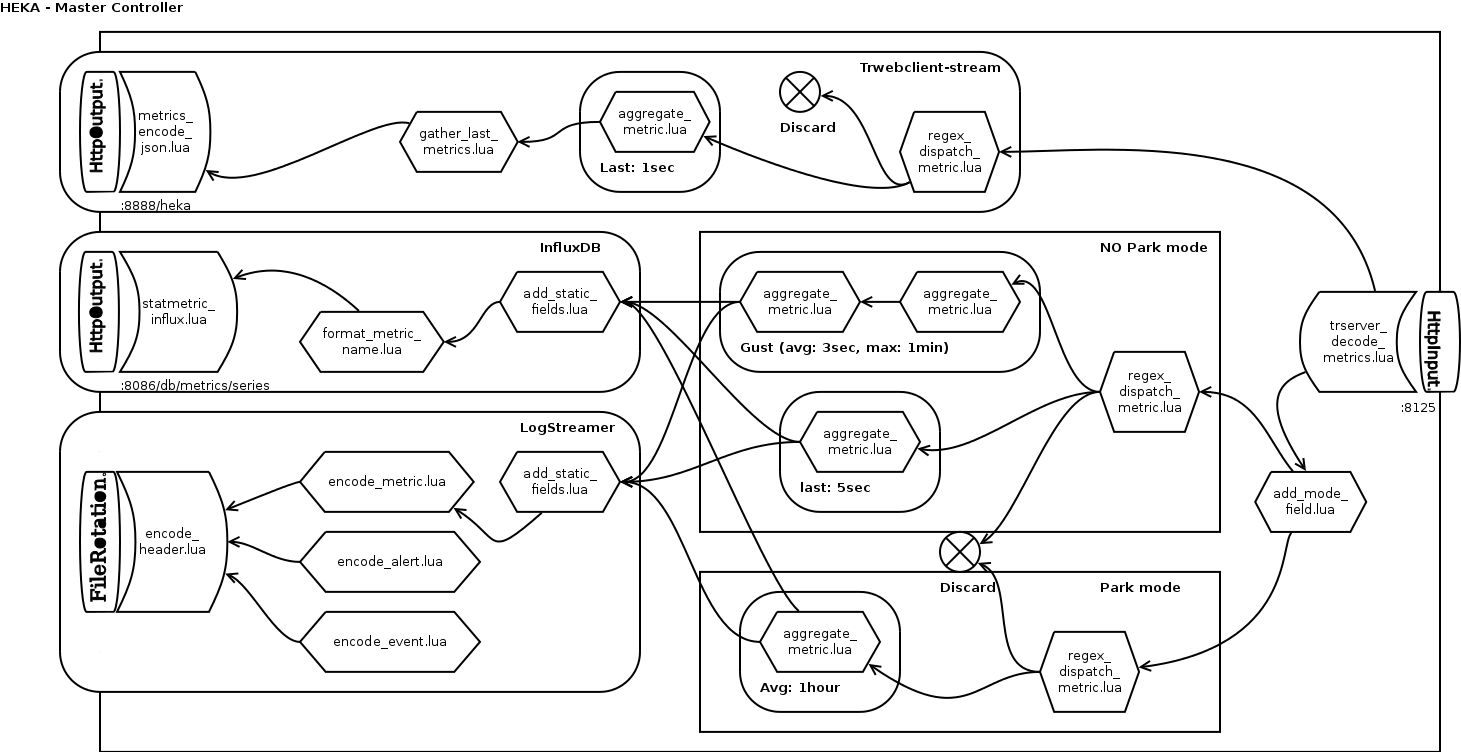
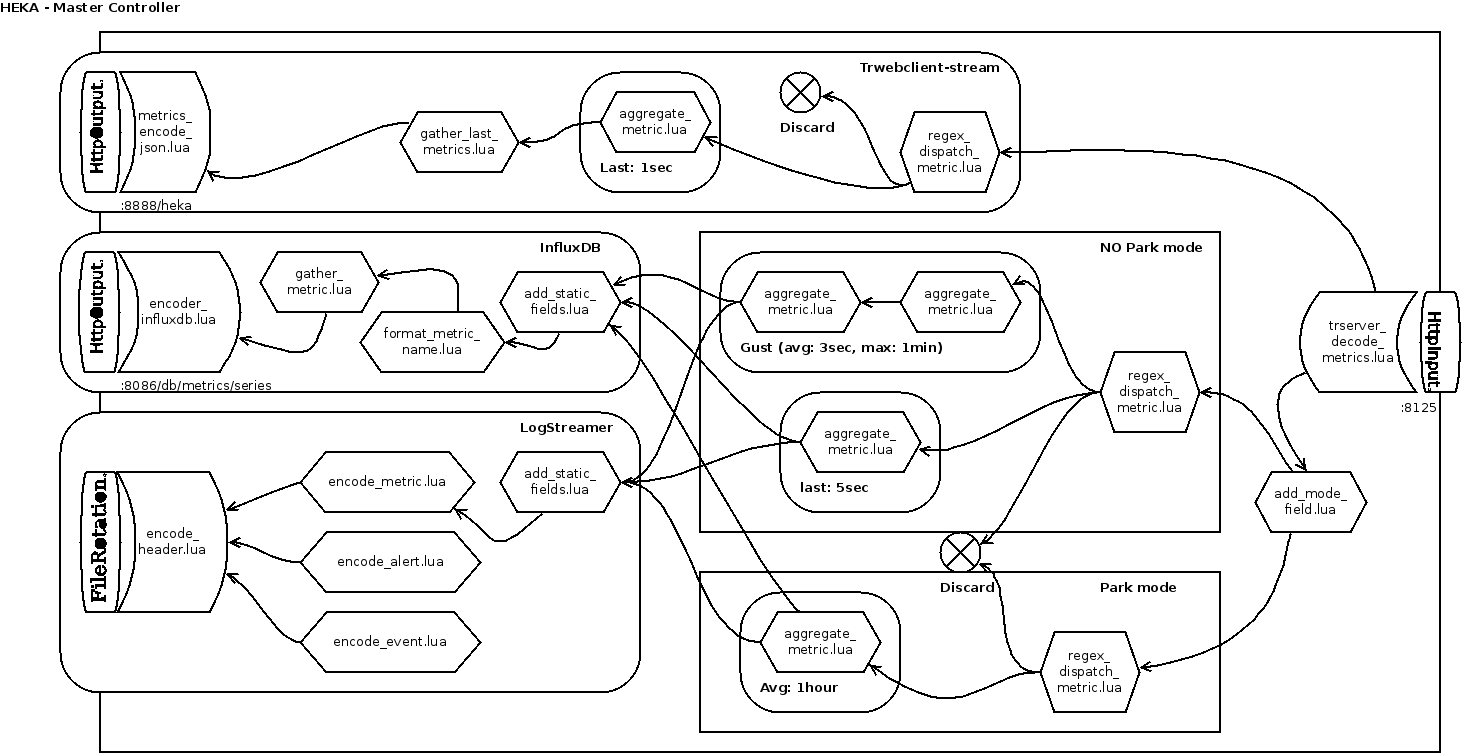
batch messages InfluxDB

diff --git a/README.md b/README.md
@@ -76,6 +76,11 @@ __filters/format_metric_name.lua:__ This sandbox will be concatenate field with 
 
 * fields(string "arg1 arg2"): take arguments with as separator a whitespace. Each arguments must correspond to a field name. The order of these arguments is important!
 * separator(string): the string which will separate fields value
+* type_output(string): __suffix__ name for the next sandbox. The base name is heka.sandbox.
+
+__filters/gather_metrics.lua:__ This sandbox will be group metric and encode it before sending to influxdb
+
+* ticker_interval(int): Frequency (in seconds) that a timer event will be sent to the filter.
 * emit_timestamp_in_sec(boolean): convert timestamp in second instead of nanosecond
 * type_output(string): __suffix__ name for the next sandbox. The base name is heka.sandbox.
 
@@ -102,6 +107,8 @@ __filters/encode_metric.lua:__ This sandbox will dump metric message into the pa
 __encoders/encode_header.lua:__ This sandbox will dump metric, alert or event data into the payload
 
 __encoders/metrics_encode_json.lua:__ This sandbox dump data from fields to a JSON object
+
+__encoders/encode_influxdb.lua:__ This sandbox send data from payload to influxdb server
 
 Config
 ------
